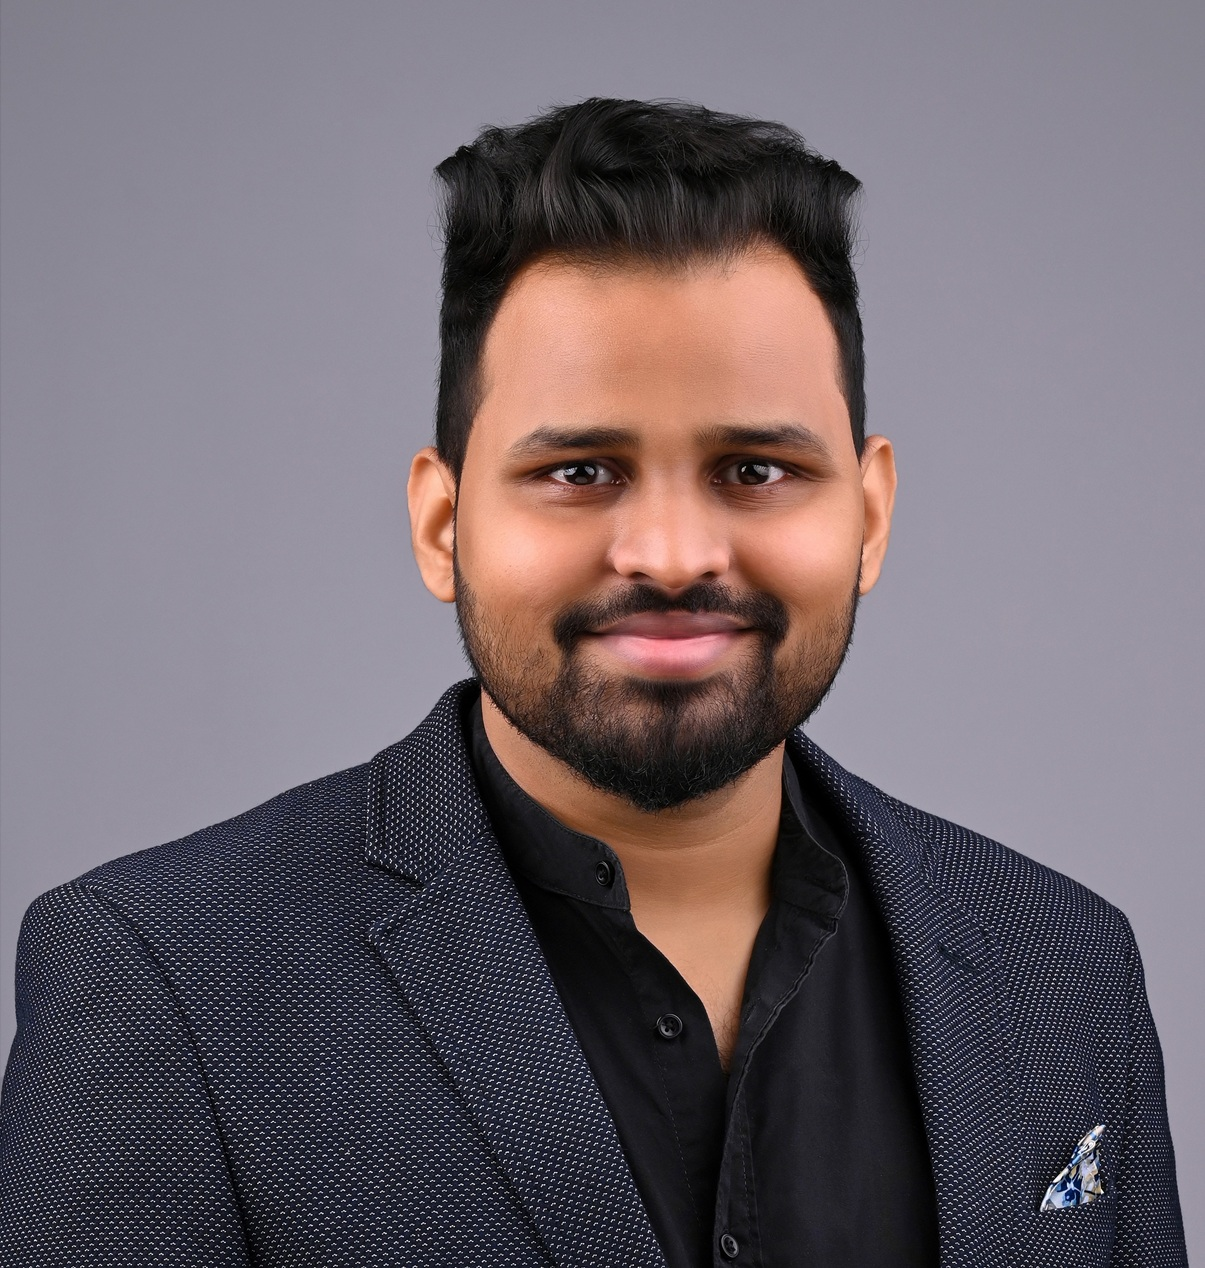
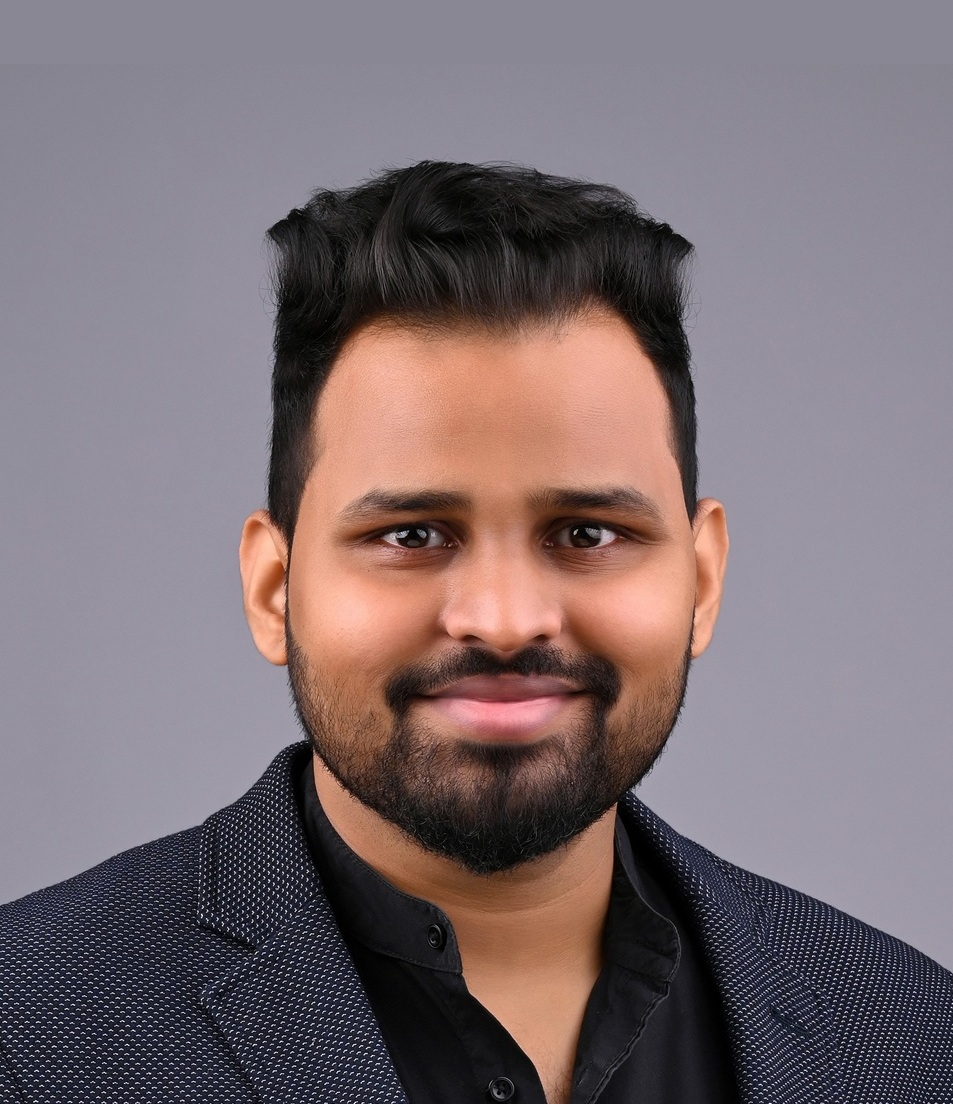
Few minor corrections. Photo cropped, so face occupies more area.

diff --git a/content/_index.md b/content/_index.md
@@ -2,7 +2,7 @@
 type: "page"
 ---
 
-I am Rohan. I head the product team at <a href="https://sahipro.com" target="_blank" rel="noopener">Sahi Pro</a>.
+I am Rohan Surve. I head the product team at <a href="https://sahipro.com" target="_blank" rel="noopener">Sahi Pro</a>.
 
 I find solace at work in solving problems as well as enabling people. Besides tech, I like contemplating about sustainable diet and exercise. I am also fairly intrigued by contemporary fiction, macro-economics and strategy management.
 